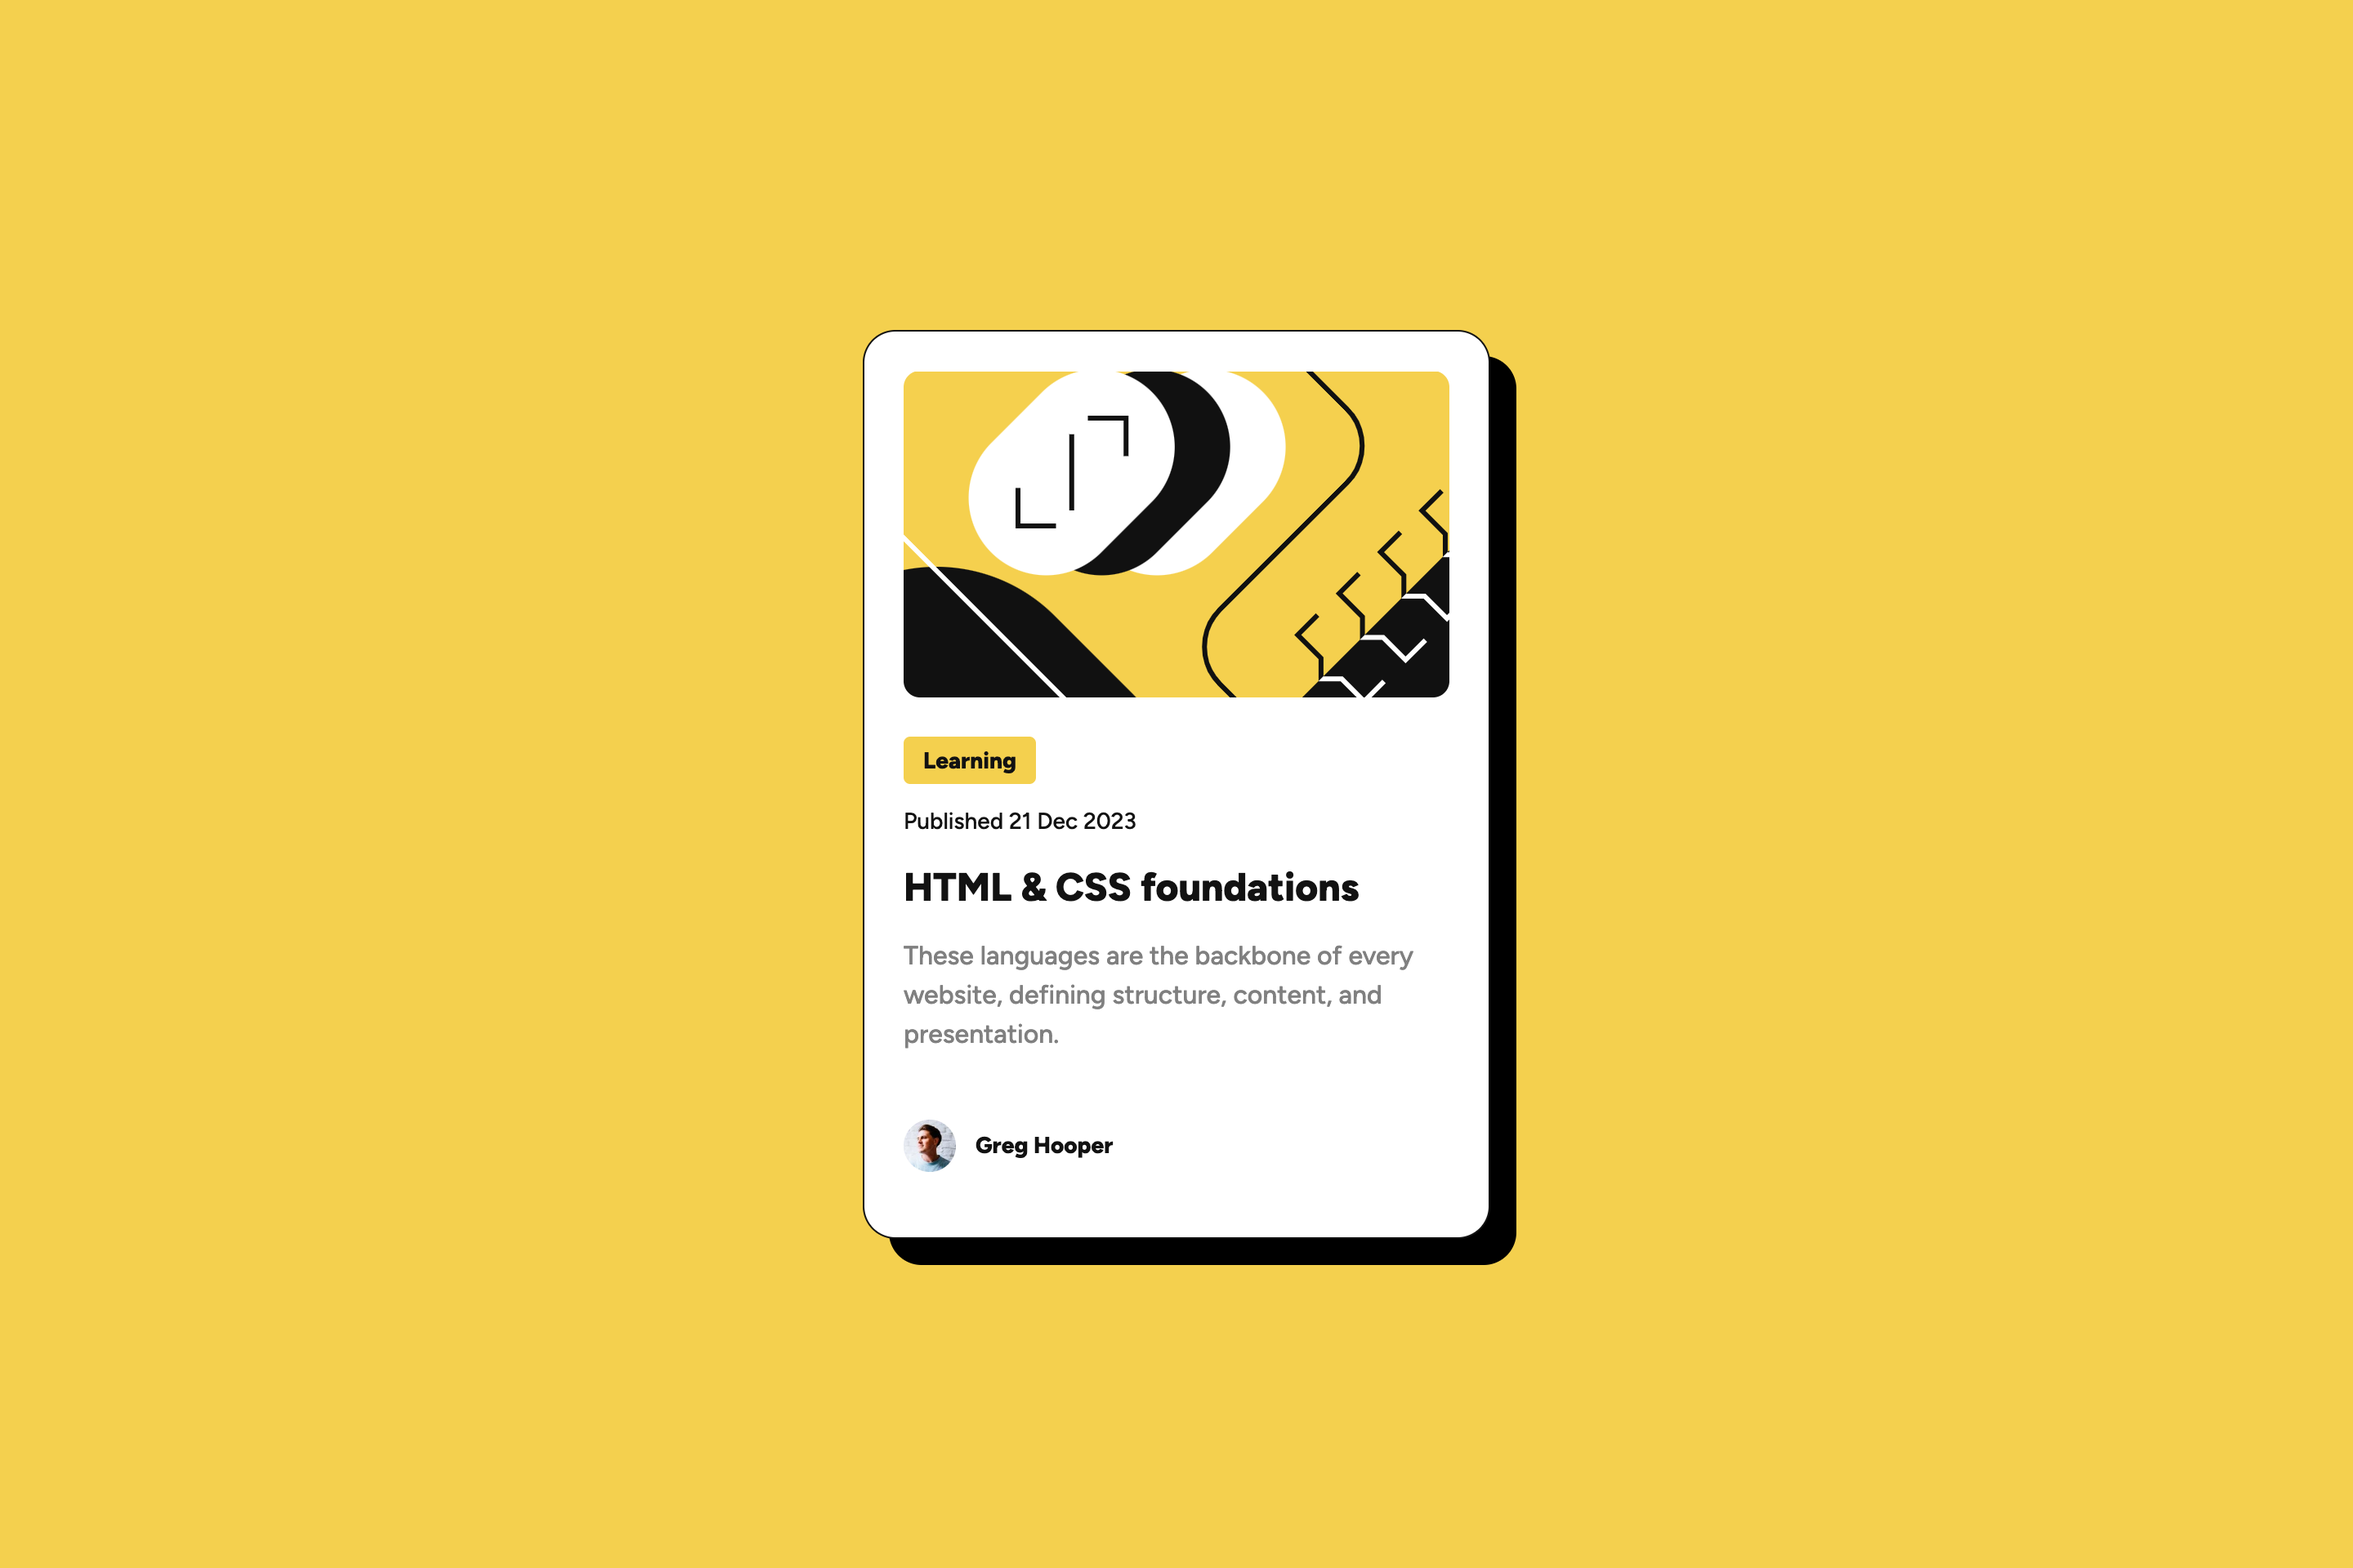
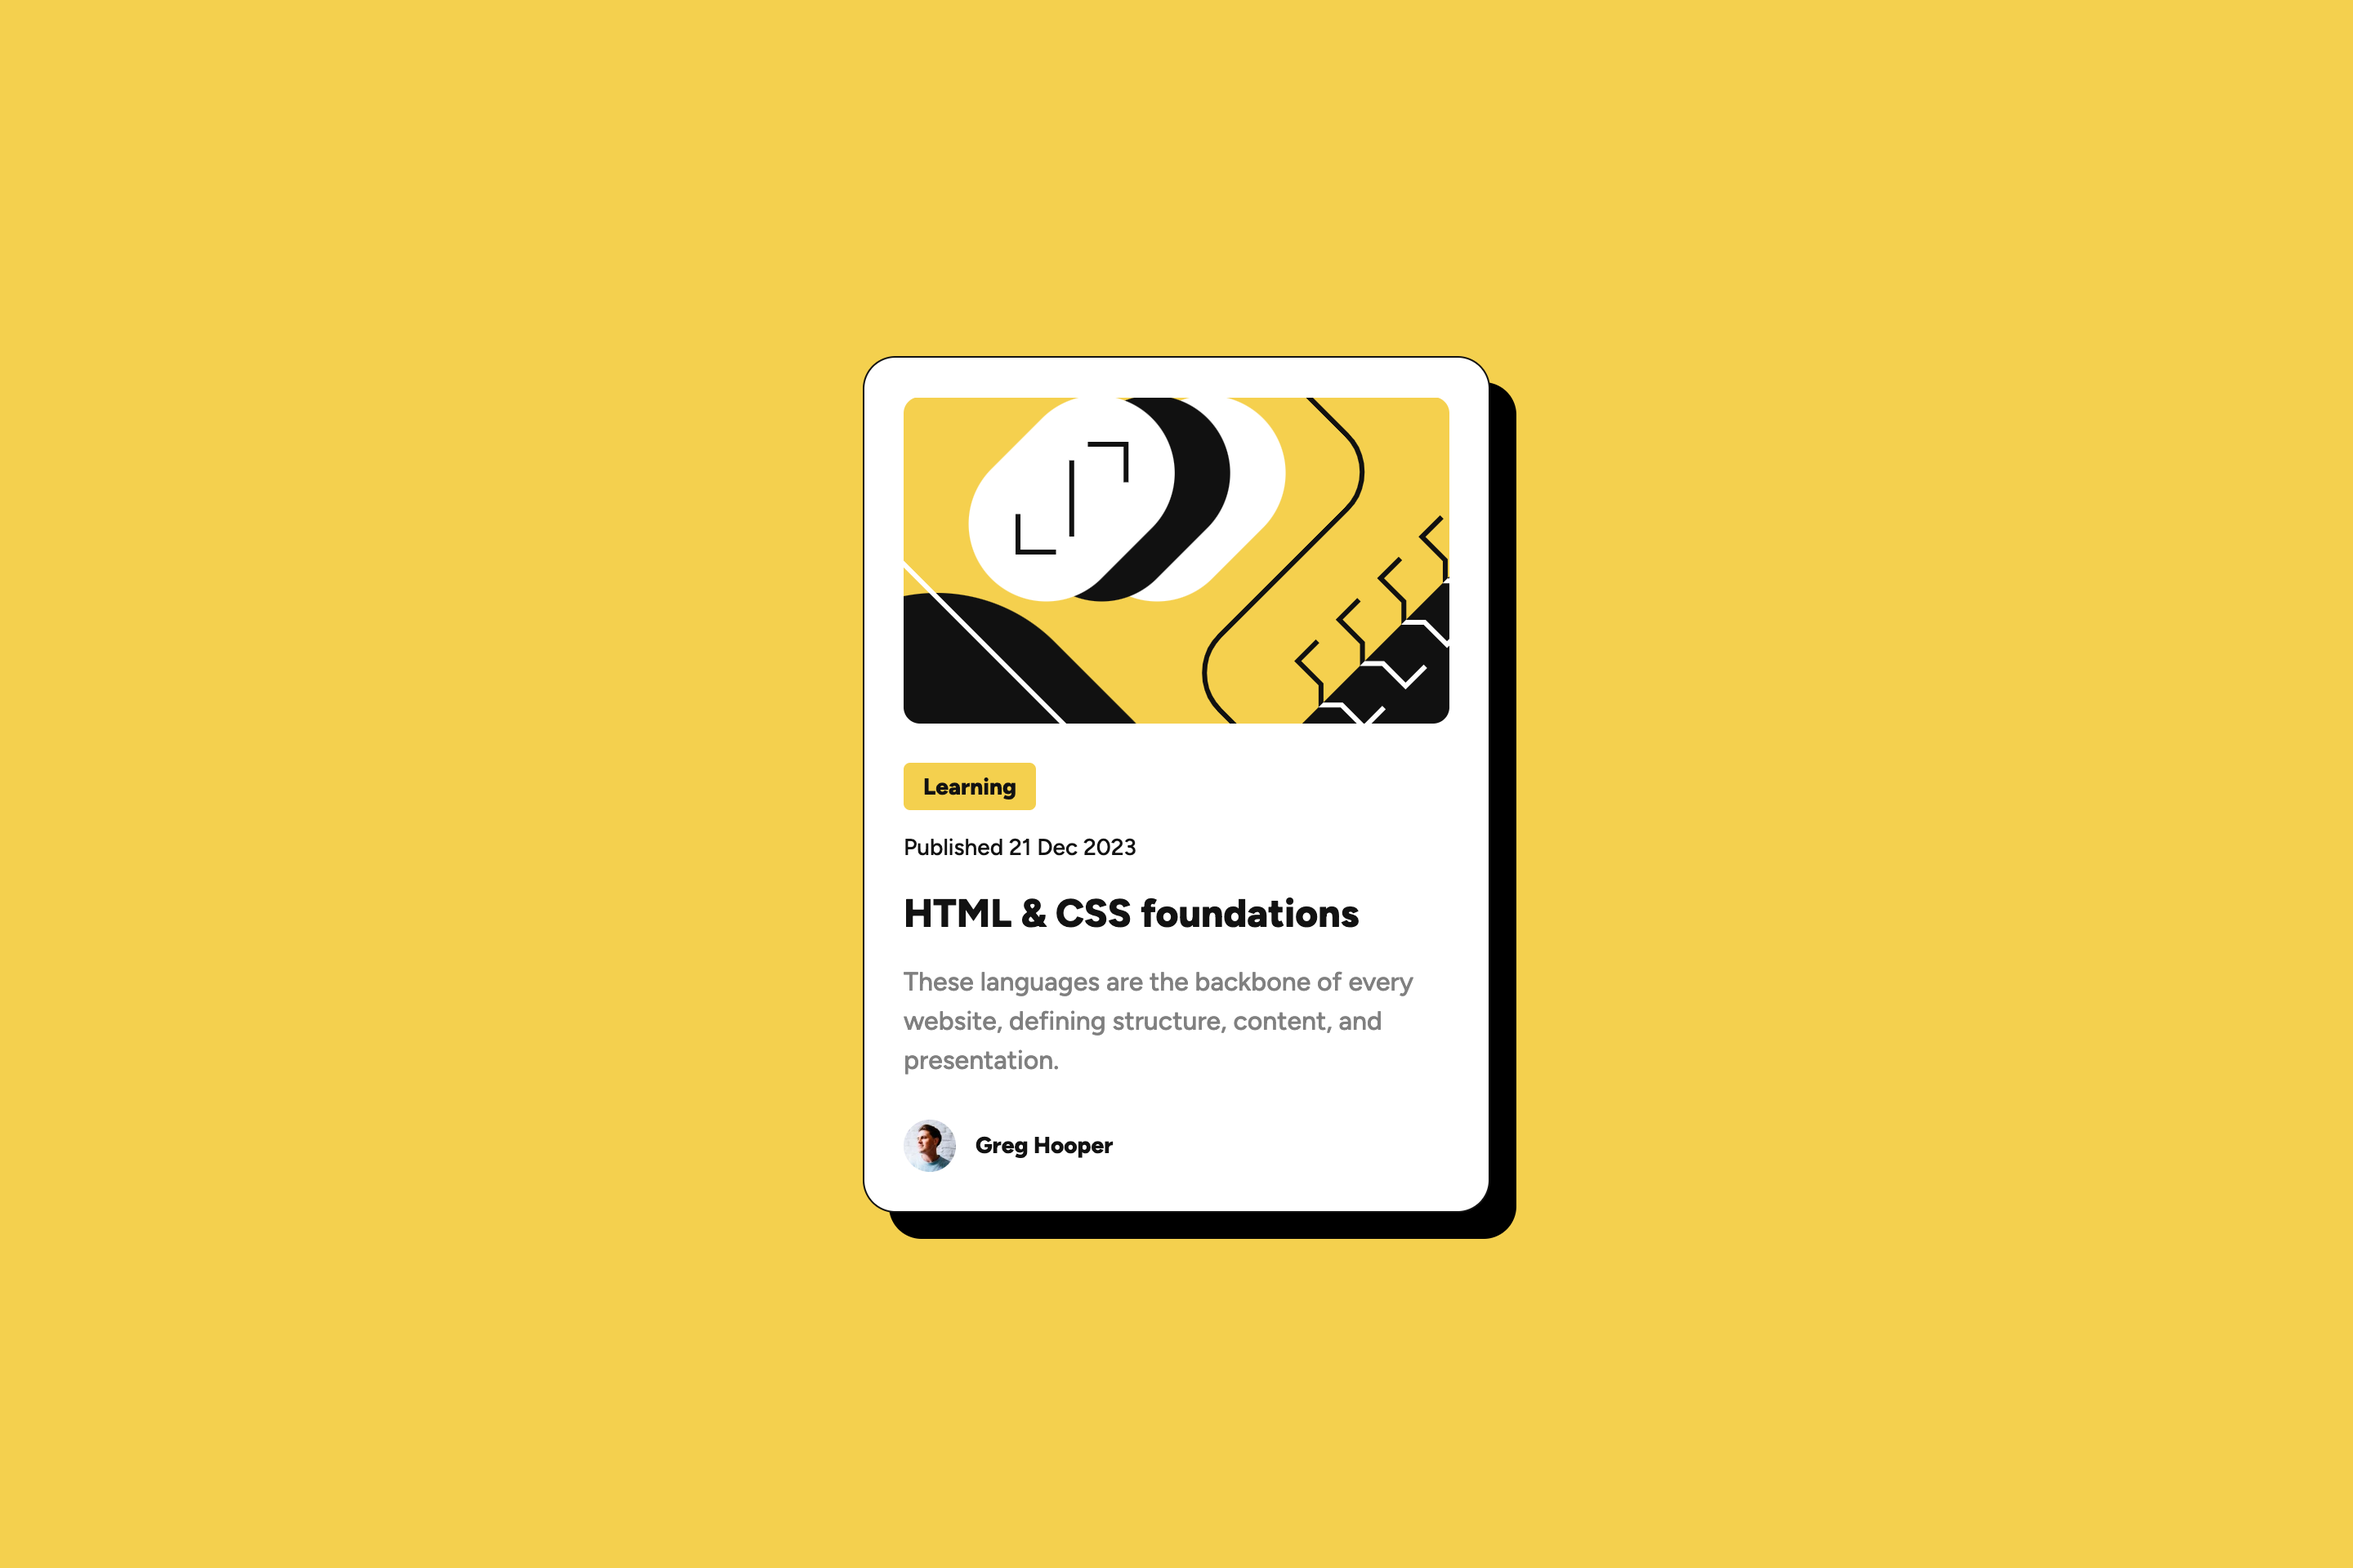
Fix errors

Changed region(s): [[0.3438, 0.1875, 0.6562, 0.6875], [0.3438, 0.75, 0.6562, 0.8125]]

diff --git a/src/index.html b/src/index.html
@@ -9,8 +9,8 @@
   <meta name="description" content="Blog preview card challenge on Frontend Mentor">
 </head>
 <body class="page">
-  <h1 class="sr-only">Blog preview card challenge on Frontend Mentor</h1>
   <main class="page__main">
+    <h1 class="sr-only">Blog preview card challenge on Frontend Mentor</h1>
     <section class="card">
       <h2 class="card__title">
         <a class="card__link" href="#">HTML & CSS foundations</a>

diff --git a/src/styles/components/card.css b/src/styles/components/card.css
@@ -57,6 +57,7 @@
   grid-template-columns: 32px 1fr;
   gap: 12px;
   align-items: center;
+  margin: 0;
   padding-top: 12px;
 }
 
@@ -92,7 +93,7 @@
   border-radius: 4px;
 }
 
-@media (min-width: 768px) {
+@media (min-width: 1200px) {
 
   .card {
     box-shadow: 16px 16px 0 0 var(--color-base-blakest);

diff --git a/src/styles/components/page.css b/src/styles/components/page.css
@@ -16,7 +16,7 @@
   padding: 24px;
 }
 
-@media (min-width: 768px) {
+@media (min-width: 1200px) {
 
   .page {
     font-size: 16px;
